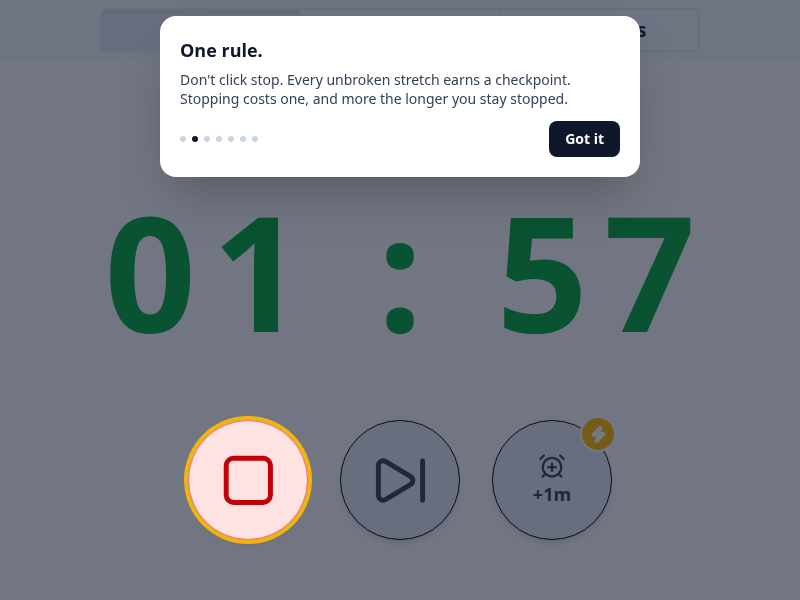
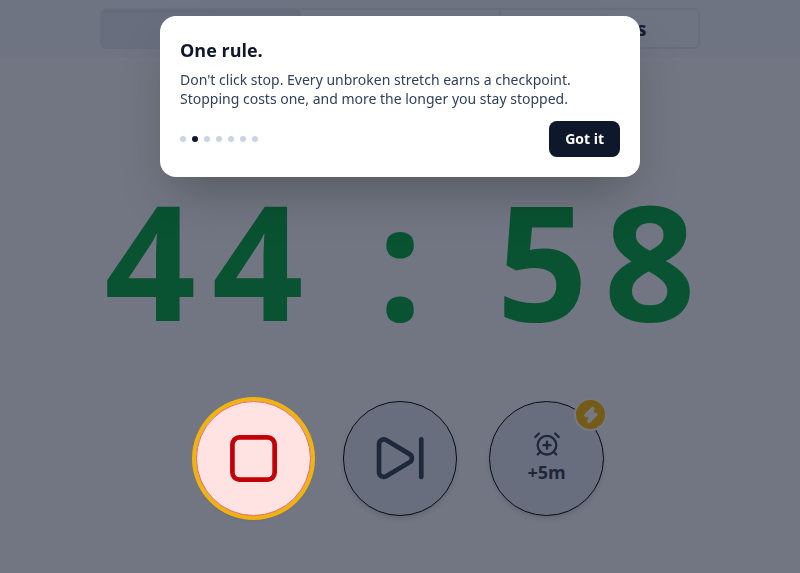
Dim missing tour targets, end the demo break, and test on pull requests only

diff --git a/src/renderer/dashboard/components/tour/Tour.tsx b/src/renderer/dashboard/components/tour/Tour.tsx
@@ -69,6 +69,11 @@ export default function Tour({ timerState, onDone }: TourProps) {
     }
   };
 
+  // A demo break ends the way a real one does: the window goes away and the tour moves on
+  useEffect(() => {
+    if (demo?.status === "BREAK" && demo.currentCountdownMs === 0) advance();
+  }, [demo]);
+
   // The demo window's buttons are the real ones, so their clicks are stopped here before they reach the app.
   // Only the button the beat names does anything, and what it does is move the tour on
   const onDemoClick = (event: MouseEvent) => {
@@ -84,7 +89,8 @@ export default function Tour({ timerState, onDone }: TourProps) {
 
   return (
     <div ref={root} data-testid="tour" className="fixed inset-0 z-50 select-none">
-      {beat.demo && <div className="absolute inset-0 bg-slate-900/60" />}
+      {/* Demo beats dim the tab behind them; a beat whose target isn't on screen (replayed mid-break) dims it too, rather than showing nothing */}
+      {(beat.demo || (beat.target && !target)) && <div className={`absolute inset-0 ${beat.demo ? "bg-slate-900/85" : "bg-slate-900/60"}`} />}
       {beat.target && (
         <div
           data-testid="tour-spotlight"
